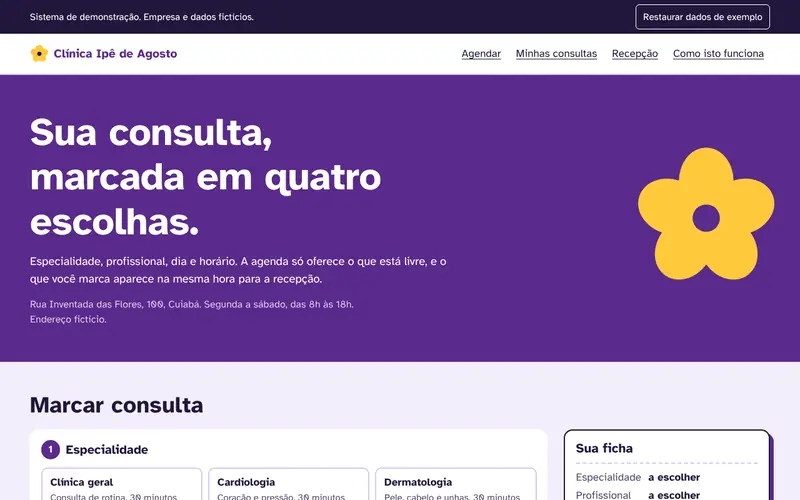
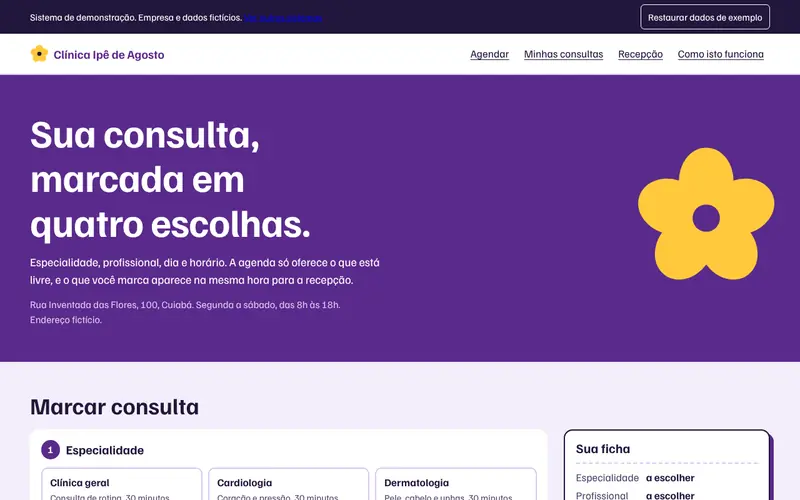
Atualiza capturas das demonstrações e o README
Refaço as capturas das oito demonstrações e coloco a imagem do início no README.

diff --git a/README.md b/README.md
@@ -2,7 +2,9 @@
 
 Meu código, seu site. Site principal em [mileumalinhas.com.br](https://mileumalinhas.com.br).
 
-Site estático em HTML, CSS e JavaScript puro, sem dependências, sem cookies e sem nenhuma requisição a terceiros. O navegador guarda só a aparência escolhida.
+![Início do site Mil e Uma Linhas!](img/site.webp)
+
+Site estático em HTML, CSS e JavaScript puro, sem dependências, sem cookies e sem nenhuma requisição a terceiros. O navegador guarda só a aparência escolhida e, nas demonstrações, os dados de teste.
 
 | Pasta ou arquivo | Para que serve |
 |---|---|
@@ -15,6 +17,7 @@ Site estático em HTML, CSS e JavaScript puro, sem dependências, sem cookies e 
 | `js/guia.js` | Aba que explica o que cada linguagem faz |
 | `js/demos.js` | As demonstrações. Tudo roda no navegador de quem usa |
 | `js/linguagens.js` | A mesma regra em 16 linguagens; cada programa foi compilado ou executado de verdade |
+| `vitrine/` | Sistemas de demonstração, cada um em sua pasta, com aviso e rodapé comuns em `assinatura.css` |
 | `fonts/` | Bricolage Grotesque e JetBrains Mono, servidas daqui (licença OFL) |
 
 Para rodar no computador, sirva a pasta com qualquer servidor local, como `python3 -m http.server`.
